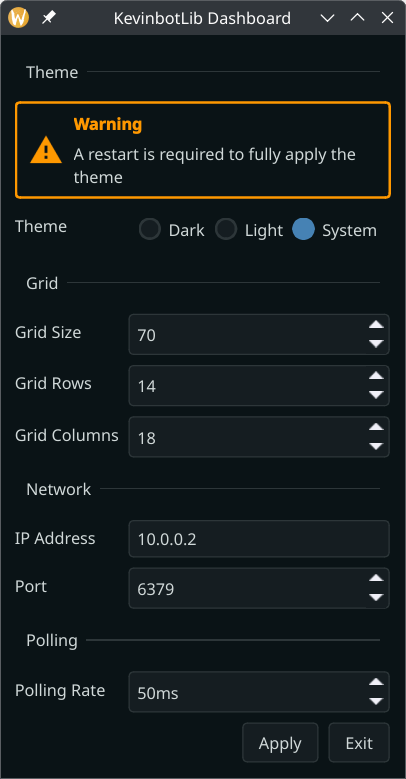
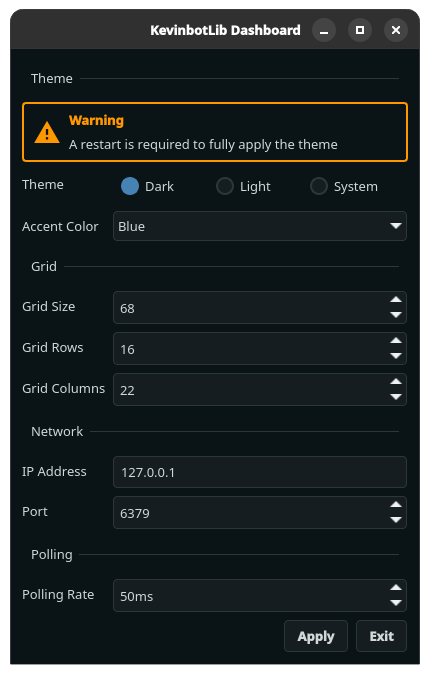
docs: update dashboard settings

diff --git a/docs/apps/dashboard/settings.md b/docs/apps/dashboard/settings.md
@@ -1,25 +1,32 @@
 # Configuration
 
-![dashboard-settings.png](../../media/dashboard-settings.png){width=240}
+![dashboard-settings.png](../../media/dashboard-settings.png){width=280}
 
 Use the Edit > Settings menu item or ++ctrl+comma++ to open the configuration window.
 
 ## Theme
 
+### Theme Option
+
+The theme option can be set to System, Dark, or Light.
 The theme option will require a restart after changing the setting.
+
+### Accent Color
+
+The accent color option will change the accent color of grid widgets.
 
 ## Grid
 
-* Grid Size
+### Grid Size
     
-    The grid size option changes the number of pixels per grid division
+The grid size option changes the number of pixels per grid division
 
-* Grid Rows and Columns
+### Grid Rows and Columns
     
-    The grid rows and columns settings change the number of grid divisions
+The grid rows and columns settings change the number of grid divisions
 
-    !!! note
-        The grid rows and columns can not be set lower than the number of rows and/or columns used by the layout.
+!!! note
+    The grid rows and columns can not be set lower than the number of rows and/or columns used by the layout.
 
 ## Network
 
